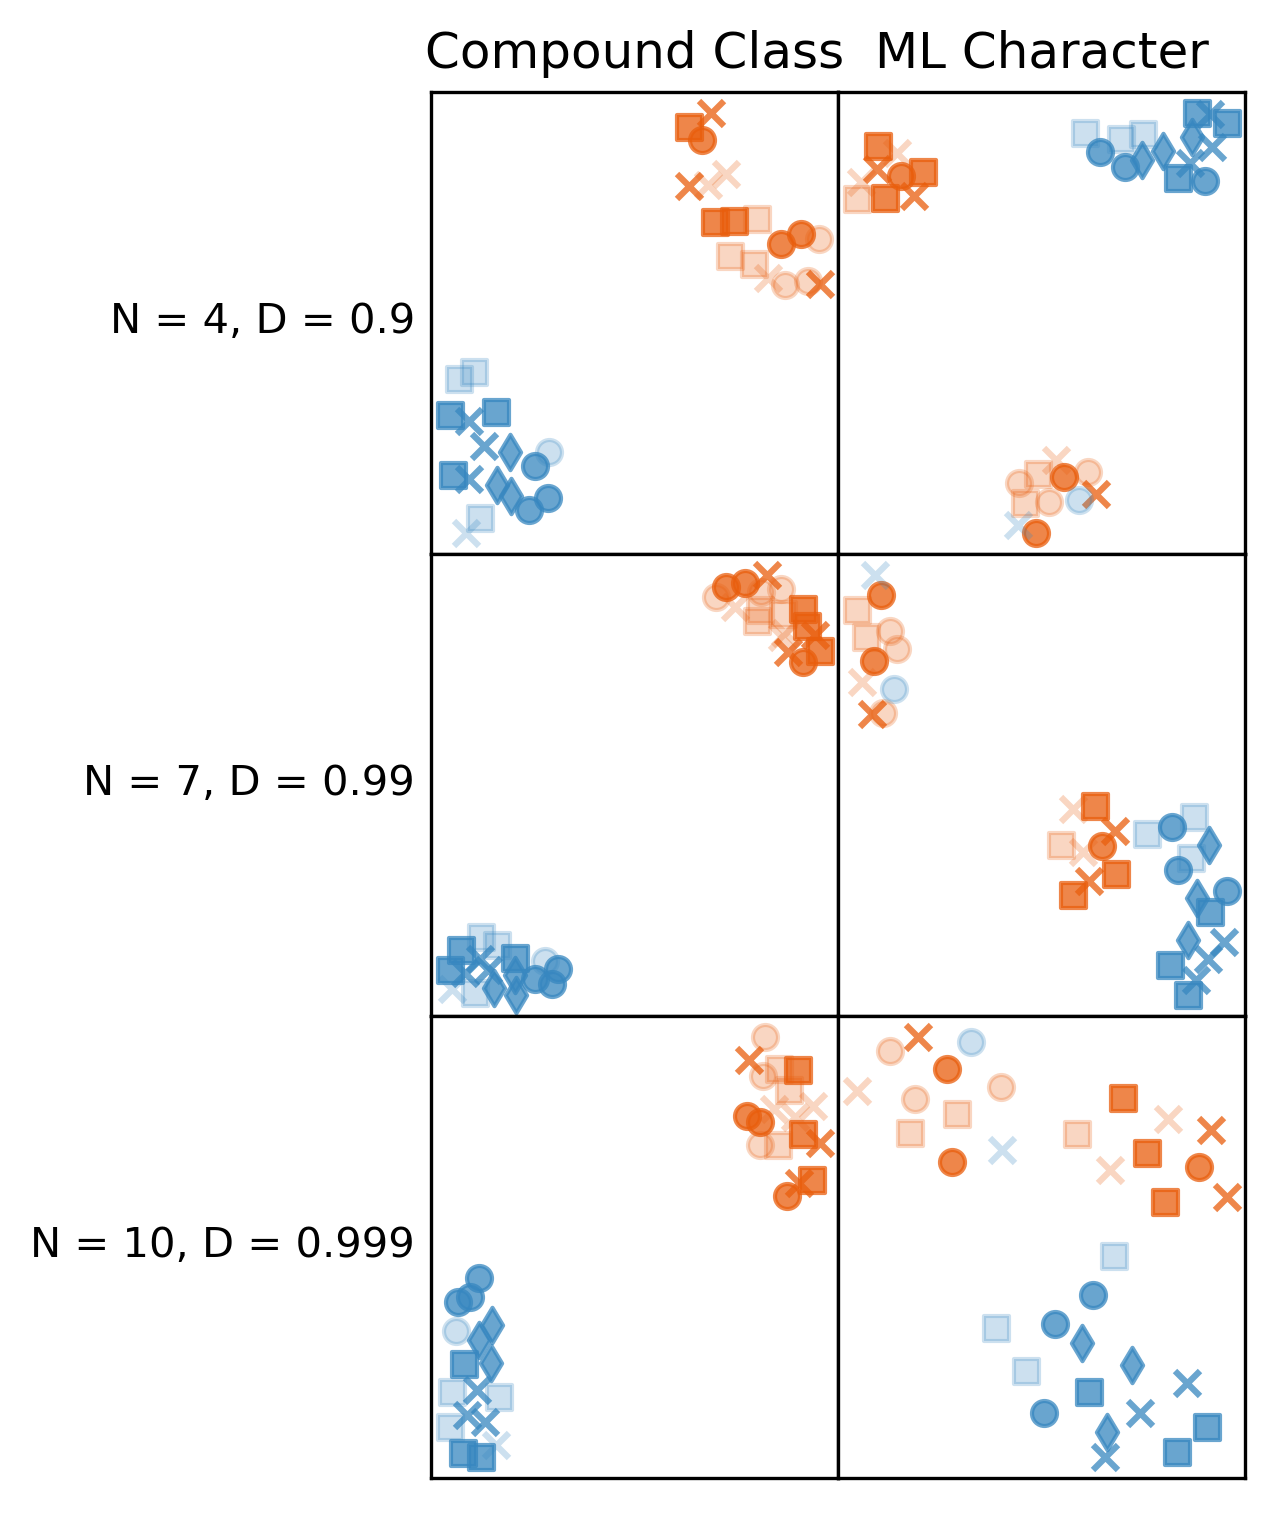
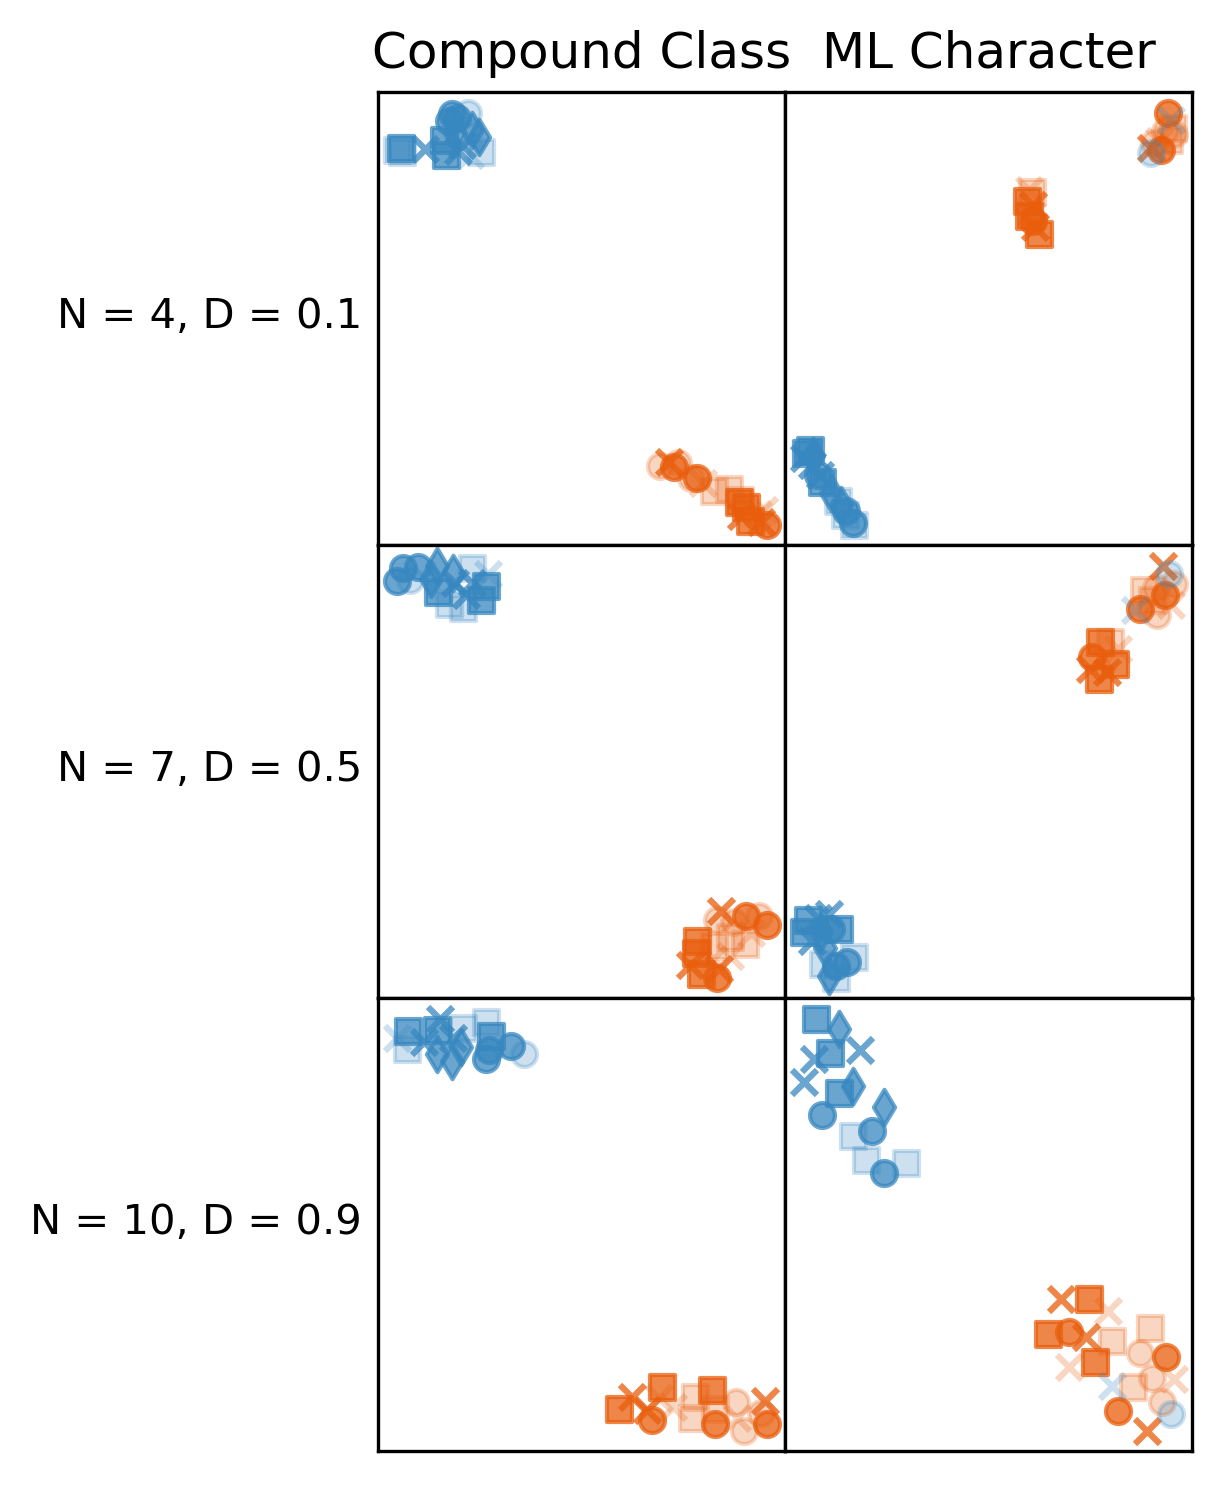
New function for UMAP
Created a function that makes a single UMAP plot, but then colors it an unlimited number of ways for emphasizing different things.

Changed region(s): [[0.0311, 0.0, 0.9951, 0.984], [0.7774, 0.2767, 0.8707, 0.369]]

diff --git a/VisualizationTools/MSPlots.py b/VisualizationTools/MSPlots.py
@@ -2242,18 +2242,85 @@ def create_multiple_UMAP_scatter(multi_scatter_plot_dict,
             if i == 0:
                 ax.set_title(multi_scatter_plot_dict['list_of_column_labels'][j], loc='center')
             
-            #Remove all axis tick-marks and labels
+            #Remove all axis tick-marks and label
             ax.set_xticks([])
             ax.set_yticks([])
             ax.set_xticklabels([])
             ax.set_yticklabels([])
-            
+    #Set full figure background as white
+    fig.patch.set_facecolor('white')        
     #If output_file_name is not none, save the plot as a .png file with output_file_name.png
     if output_file_name != None:
         plt.savefig(output_file_name + '.png', dpi=300, bbox_inches='tight')
     
     return
 
-                                    
+def create_consistent_multiUMAP_scatter(multi_scatter_plot_dict,
+                                        umap_scatter_dict,
+                                        nested_multiscatter_dict,
+                                        list_of_cluster_targets):
+    """
+    Docstring
+    """
+    # Do a dummy loop to create the original UMAP x/y coordinates.
+    # The looping order should be consistent, so using a list to store order
+    # Should be sufficient
+    fig, multi_ax = plt.subplots(nrows=multi_scatter_plot_dict['num_rows'],
+                                 ncols=multi_scatter_plot_dict['num_columns'],
+                                 figsize=(multi_scatter_plot_dict['plot_width'],
+                                          multi_scatter_plot_dict['plot_height']),
+                                          gridspec_kw={'wspace': 0, 'hspace': 0})
+    
+    list_of_umap_frames = []
+
+    for i, ax_row in enumerate(multi_ax):
+        for j, ax in enumerate(ax_row):
+            cluster_frame = create_umap_cluster_frame(list_of_cluster_targets[j],
+                                                      multi_scatter_plot_dict['list_of_UMAP_settings'][i]['n_neighbors'],
+                                                      multi_scatter_plot_dict['list_of_UMAP_settings'][i]['min_dist'])
+
+            list_of_umap_frames.append(cluster_frame)
+
+    # Now, for every set of settings in nested_multiscatter_dict, create and save
+    # The actual desired plots
+    for setting in nested_multiscatter_dict:
+        # Create the figure and axes
+        fig, multi_ax = plt.subplots(nrows=multi_scatter_plot_dict['num_rows'],
+                                        ncols=multi_scatter_plot_dict['num_columns'],
+                                        figsize=(multi_scatter_plot_dict['plot_width'],
+                                                multi_scatter_plot_dict['plot_height']),
+                                                gridspec_kw={'wspace': 0, 'hspace': 0})
+        for i, ax_row in enumerate(multi_ax):
+            for j, ax in enumerate(ax_row):
+                #Create individual scatter plot by updating ax
+                cluster_frame = list_of_umap_frames[i * multi_scatter_plot_dict['num_columns'] + j]
+                ax = update_scatter_ax(ax,
+                                       cluster_frame,
+                                       nested_multiscatter_dict[setting]['umap_settings'])
+                
+                #Add row title at first column
+                if j == 0:
+                    ax.annotate(multi_scatter_plot_dict['list_of_row_labels'][i],
+                                xy=(0, 0.5),
+                                xycoords=ax.yaxis.label,
+                                textcoords='offset points',
+                                ha='right', va='center')
+                
+                #Add column title at top row
+                if i == 0:
+                    ax.set_title(multi_scatter_plot_dict['list_of_column_labels'][j], loc='center')
+                
+                #Remove all axis tick-marks and label
+                ax.set_xticks([])
+                ax.set_yticks([])
+                ax.set_xticklabels([])
+                ax.set_yticklabels([])
+            
+        #If output_file_name is not none, save the plot as a .png file with output_file_name.png
+        if nested_multiscatter_dict[setting]['output_name'] != None:
+            plt.savefig(nested_multiscatter_dict[setting]['output_name'] + '.png', dpi=300, bbox_inches='tight')
+    
     return
+    
+
 

diff --git a/VisualizationTools/visualization_settings.py b/VisualizationTools/visualization_settings.py
@@ -628,15 +628,15 @@ cfgc_publication_multi_UMAP_dict = {'plot_width': 3.5,
                                     'shade_choice': 3,
                                     'opacity': 0.5,
                                     'point_size': 0.1,
-                                    'list_of_row_labels': ['N = 4, D = 0.9',
-                                                           'N = 7, D = 0.99',
-                                                           'N = 10, D = 0.999'],
+                                    'list_of_row_labels': ['N = 4, D = 0.1',
+                                                           'N = 7, D = 0.5',
+                                                           'N = 10, D = 0.9'],
                                     'list_of_UMAP_settings': [{'n_neighbors': 4,
-                                                               'min_dist': 0.9,},
+                                                               'min_dist': 0.1,},
                                                                 {'n_neighbors': 7,
-                                                                    'min_dist': 0.99,},
+                                                                    'min_dist': 0.5,},
                                                                 {'n_neighbors': 10,
-                                                                    'min_dist': 0.999,},],
+                                                                    'min_dist': 0.9,},],
                                     'list_of_column_labels': ['Compound Class', 'ML Character'],
                                     'num_rows': 3,
                                     'num_columns': 2,
@@ -673,4 +673,24 @@ cfgc_publication_umap_scatter_dict = {'marker_colors': {'Label_0': {'L1': ['Oran
                                                                   'acetone': 's',
                                                                   'iPrOH': 'x',
                                                                   'NEt3': 'd'}}}
+
+cfgc_publication_test_multiscatter = {'fig_1': {'umap_settings': {'marker_colors': {'Label_0': {'L1': ['Oranges', 5, 3],
+                                                                    'S2': ['Blues', 5, 3]}},
+                                      'marker_opacity': {'Label_1': {'toluene': 0.75,
+                                                                     'DCM': 0.25}},
+                                      'marker_type': {'Label_2': {'AcOH': 'o',
+                                                                  'acetone': 's',
+                                                                  'iPrOH': 'x',
+                                                                  'NEt3': 'd'}}},
+                                                                  'output_name': 'test_1'},
+                                    'fig_2': {'umap_settings': {'marker_colors': {'Label_0': {'L1': ['Oranges', 5, 3],
+                                                                    'S2': ['Blues', 5, 3]}},
+                                      'marker_opacity': {'Label_1': {'toluene': 0.15,
+                                                                     'DCM': 0.05}},
+                                      'marker_type': {'Label_2': {'AcOH': 'o',
+                                                                  'acetone': 's',
+                                                                  'iPrOH': 'x',
+                                                                  'NEt3': 'd'}}},
+                                                                  'output_name': 'test_2'}}
+
 
